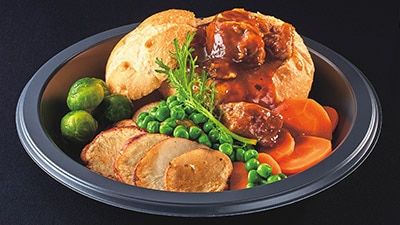
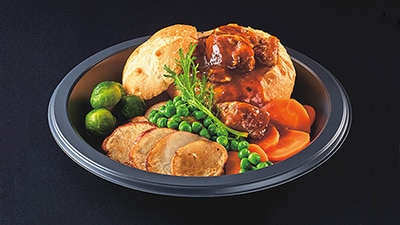
sdf

diff --git a/universalStudio/cjm-universal-project/src/data/seasonalMenu.js b/universalStudio/cjm-universal-project/src/data/seasonalMenu.js
@@ -304,9 +304,9 @@ export const seasonalMenu = {
             {
                 "idx" : "5-1",
                 "image" : "seasonal5-1.jpg",
-                "menu" : "할로윈 플레이트",
+                "menu" : "크리스마스 플레이트",
                 "price" : "￥2,700",
-                "menu_description" : "포크립, 로티세리 스모크 치킨, 통옥수수, 익힌 채소, 고기 파이, 잭 오 랜턴 파이, 롤리팝 캔디",
+                "menu_description" : "로스트 치킨, 치폴라타 소시지, 로스트 포테이토, 완두콩, 당근, 방울양배추, 크랜베리 소스, 그레이비 소스, 대파 감자 수프",
             },
             {
                 "idx" : "5-2",
@@ -318,42 +318,28 @@ export const seasonalMenu = {
             {
                 "idx" : "5-3",
                 "image" : "seasonal5-3.jpg",
-                "menu" : "그레이트 피스트™",
-                "price" : "￥8,000",
-                "menu_description" : "가든 샐러드, 로티세리 스모크 치킨, 포크립 모둠, 통옥수수와 로스트 포테이토(4인분)",
+                "menu" : "크리스마스 요리",
+                "price" : "￥8,900",
+                "menu_description" : "가든 샐러드, 로스트 치킨, 치폴라타 소시지, 로스트 포테이토, 완두콩, 당근, 방울양배추, 크랜베리 소스, 그레이비 소스",
             },
             {
                 "idx" : "5-4",
                 "image" : "seasonal5-4.jpg",
-                "menu" : "로티세리 스모크 치킨&셰퍼드 파이",
-                "price" : "￥2,500",
-                "menu_description" : "구운 통옥수수, 익힌 채소",
-            },
-            {
-                "idx" : "5-5",
-                "image" : "seasonal5-4.jpg",
-                "menu" : "로스트비프",
-                "price" : "￥3,100",
-                "menu_description" : "그레이비 소스를 곁들인 로스트 포테이토, 요크셔 푸딩",
-            },
-            {
-                "idx" : "5-6",
-                "image" : "seasonal5-6.jpg",
                 "menu" : "피시&칩스",
                 "price" : "￥2,200",
                 "menu_description" : "흰살 생선 튀김과 프라이드 포테이토∼타르타르 소스∼, 완두콩, 으깬 완두콩",
             },
             {
-                "idx" : "5-7",
-                "image" : "seasonal5-7.jpg",
+                "idx" : "5-5",
+                "image" : "seasonal5-5.jpg",
                 "menu" : "포크립",
                 "price" : "￥2,200",
                 "menu_description" : "구운 통옥수수, 로스트 포테이토",
             },
             {
-                "idx" : "5-8",
-                "image" : "seasonal5-8.jpg",
-                "menu" : "베지테리언 플레이트",
+                "idx" : "5-6",
+                "image" : "seasonal5-6.jpg",
+                "menu" : "베지터블 플레이트",
                 "price" : "￥1,750",
                 "menu_description" : "가든 샐러드, 구운 통옥수수, 프라이드 포테이토, 믹스 베지터블",
             },
